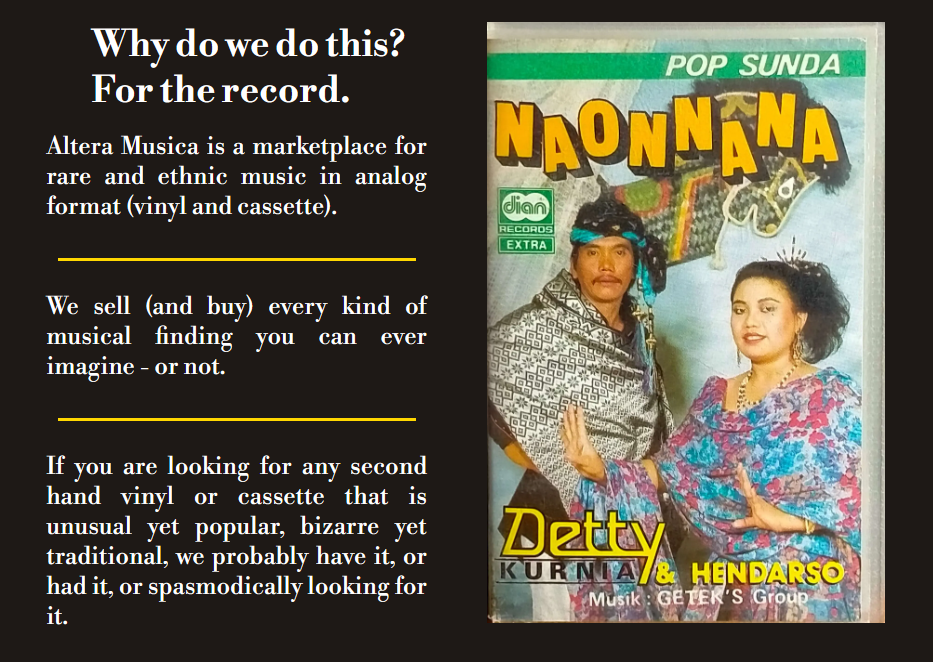
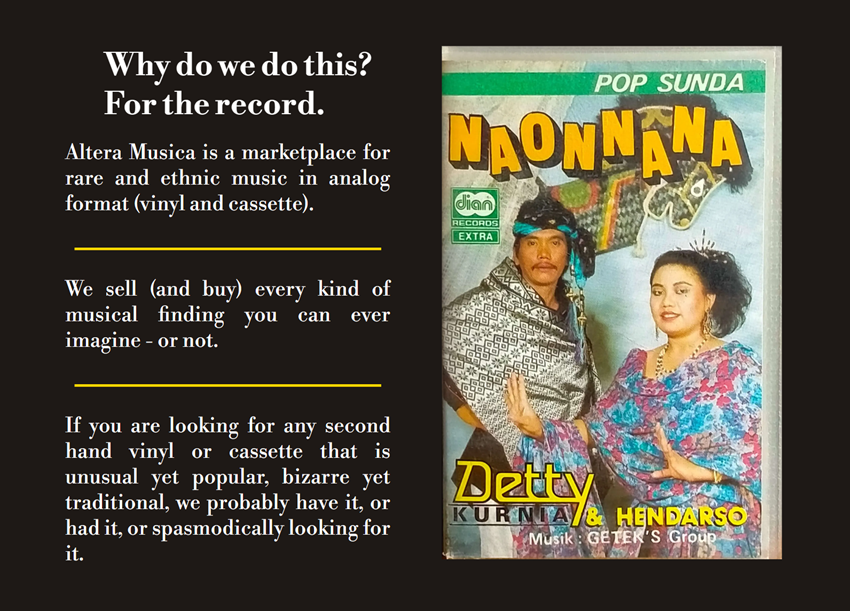
Change images in introductive text section in README.md

diff --git a/README.md b/README.md
@@ -257,10 +257,10 @@ The page consists of four pages (plus the 404.html page) and eleven general feat
 ![Introduction](docs/features/intro-smartphone.png)
 
 ##### Tablet Version
-![Introduction](docs/features/intro-tablet.webp)
+![Introduction](docs/features/intro-tablet.png)
 
 ##### Desktop Version
-![Introduction](docs/features/intro-desktop.webp)
+![Introduction](docs/features/intro-desktop.png)
 <br>
 <br>
 
@@ -462,8 +462,10 @@ Google Lighthouse in Microsoft Edge Developer Tools was used to test performance
 The website was tested on the following devices:
 - HP Laptop 15s-eq0xxx;
 - Oppo A52;
-- iPhone 13pro;
-- Realme RMX3630.
+- iPhone 13 Pro;
+- iPhone 14 Pro
+- Realme RMX3630;
+- Redmi Note 11 Pro;
 
 in addition, the website has been tested using Google Chrome DevTools (and its similar device on Microsoft Edge) for all available device options.
 <br>
